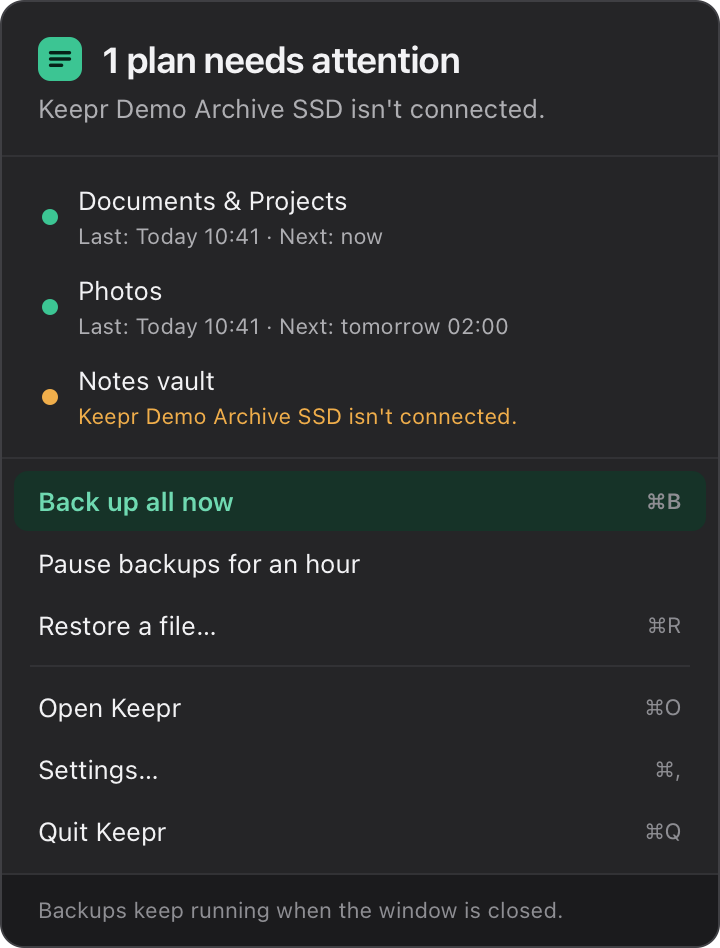
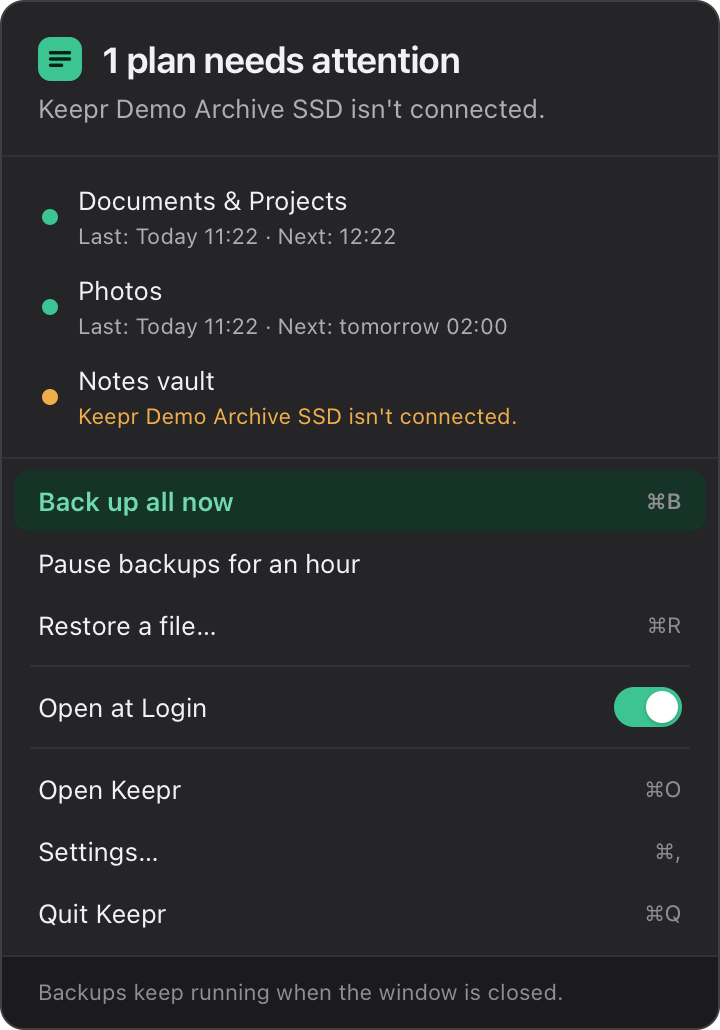
Docs, help and screenshots for the menu bar's Open at Login
Screenshot scenes show Open at Login as the installed app would, and draw
switches without their transition, which never ran in the hidden window.

diff --git a/src/styles.css b/src/styles.css
@@ -589,6 +589,11 @@ p {
 .switch.on::after {
   left: 16px;
 }
+/* Screenshots: the window is hidden, so WebKit may not run a transition; draw the end state. */
+html[data-scene] .switch,
+html[data-scene] .switch::after {
+  transition: none;
+}
 .field {
   display: flex;
   flex-direction: column;

diff --git a/src-tauri/src/lib.rs b/src-tauri/src/lib.rs
@@ -980,6 +980,10 @@ fn home_dir() -> String {
 
 #[tauri::command]
 fn login_item() -> (bool, bool) {
+    // Screenshots run the unbundled dev build, which can't register; show it as the installed app would.
+    if scene().is_some() {
+        return (true, true);
+    }
     #[cfg(target_os = "macos")]
     {
         (login_item::available(), login_item::status().is_on())
@@ -990,6 +994,9 @@ fn login_item() -> (bool, bool) {
 
 #[tauri::command]
 fn set_login_item(on: bool) -> bool {
+    if scene().is_some() {
+        return on;
+    }
     #[cfg(target_os = "macos")]
     {
         use login_item::Status;

diff --git a/docs/day-to-day.md b/docs/day-to-day.md
@@ -6,7 +6,7 @@ Once your plans are set up, Keepr backs up on its own from the menu bar, whether
 
 ## The menu bar
 
-<a href="images/index.md#day-to-day"><picture><source media="(prefers-color-scheme: dark)" srcset="images/menu-bar-dark.png"><img alt="The menu bar panel: one plan waiting for its drive, the others' last and next backups, and the menu" src="images/menu-bar-light.png" width="360"></picture></a>
+<a href="images/index.md#day-to-day"><picture><source media="(prefers-color-scheme: dark)" srcset="images/menu-bar-dark.png"><img alt="The menu bar panel: one plan waiting for its drive, the others' last and next backups, the menu and Open at Login" src="images/menu-bar-light.png" width="360"></picture></a>
 
 Keepr's icon in the menu bar shows a dot while it's backing up, and a mark when a plan needs attention. Click it for:
 
@@ -14,6 +14,7 @@ Keepr's icon in the menu bar shows a dot while it's backing up, and a mark when 
 - The backup that's running, with its progress and the time left.
 - Each plan's last and next backup, or its problem. Click one to open Keepr.
 - **Back up all now** (⌘B), **Pause backups for an hour** (which also stops the backup that's running), **Restore a file…** (⌘R), **Open Keepr** (⌘O), **Settings…** (⌘,) and **Quit Keepr** (⌘Q).
+- An **Open at Login** switch, the same one as in [Settings](#settings), in the installed app.
 
 ## Activity
 

diff --git a/docs/development.md b/docs/development.md
@@ -73,7 +73,7 @@ The Keychain still asks once after each new build, since a self-signed app has n
 
 ## Open at Login
 
-Works only in the app from `make install-app`, not under `make dev`. It registers the installed bundle with SMAppService, which survives rebuilds while the bundle identifier stays `com.wayned.keepr`.
+Works only in the app from `make install-app`, not under `make dev`. It registers the installed bundle with SMAppService, which survives rebuilds while the bundle identifier stays `com.wayned.keepr`. Screenshot scenes show it as available and on, so Settings and the menu bar panel look as they do installed.
 
 ## Help
 

diff --git a/src/help/settings.md b/src/help/settings.md
@@ -8,7 +8,7 @@ summary: Open at Login, notifications, and appearance.
 Settings (`⌘,`) holds what applies to Keepr as a whole; what applies to one plan is in the plan.
 
 ## Open at Login
-Starts Keepr when you log in, in the menu bar with no window. It's the same setting as System Settings › General › Login Items.
+Starts Keepr when you log in, in the menu bar with no window. It's the same setting as System Settings › General › Login Items, and as the switch in the menu bar panel.
 
 ## Notifications
 - **Tell me when a backup fails** (on unless you turn it off): a backup, check or restore that didn't finish.

diff --git a/src/help/menubar.md b/src/help/menubar.md
@@ -15,3 +15,6 @@ Click the icon for whether everything is kept, the backup that's running with it
 
 ## Its menu
 **Back up all now** (`⌘B`), **Pause backups for an hour** (which also stops the backup that's running), **Restore a file…** (`⌘R`), **Open Keepr** (`⌘O`), **Settings…** (`⌘,`) and **Quit Keepr** (`⌘Q`). Quit Keepr is the only way to stop it backing up.
+
+## Open at Login
+The switch above Open Keepr is the same as [Open at Login](app:settings) in Settings: it starts Keepr in the menu bar when you log in. It's only there in the installed app.

diff --git a/docs/features.md b/docs/features.md
@@ -25,7 +25,7 @@ macOS asks for some permissions along the way:
 - **Removable and network volumes.** Asked the first time Keepr reads or writes a drive or share.
 - **Notifications.** Asked the first time Keepr has something to tell you.
 
-To have Keepr start when you log in, turn on **Open at Login** in [Settings](day-to-day.md#settings).
+To have Keepr start when you log in, turn on **Open at Login** in [Settings](day-to-day.md#settings) or the [menu bar](day-to-day.md#the-menu-bar).
 
 ## The window
 
